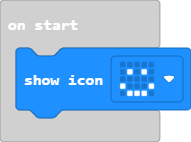
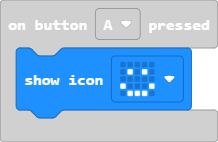
Update main.blocks, main.ts

diff --git a/main.ts b/main.ts
@@ -1,5 +1,5 @@
 input.onButtonPressed(Button.A, function () {
-    basic.showIcon(IconNames.SmallHeart)
+    basic.showIcon(IconNames.Happy)
 })
 input.onButtonPressed(Button.B, function () {
     basic.showIcon(IconNames.SmallHeart)
